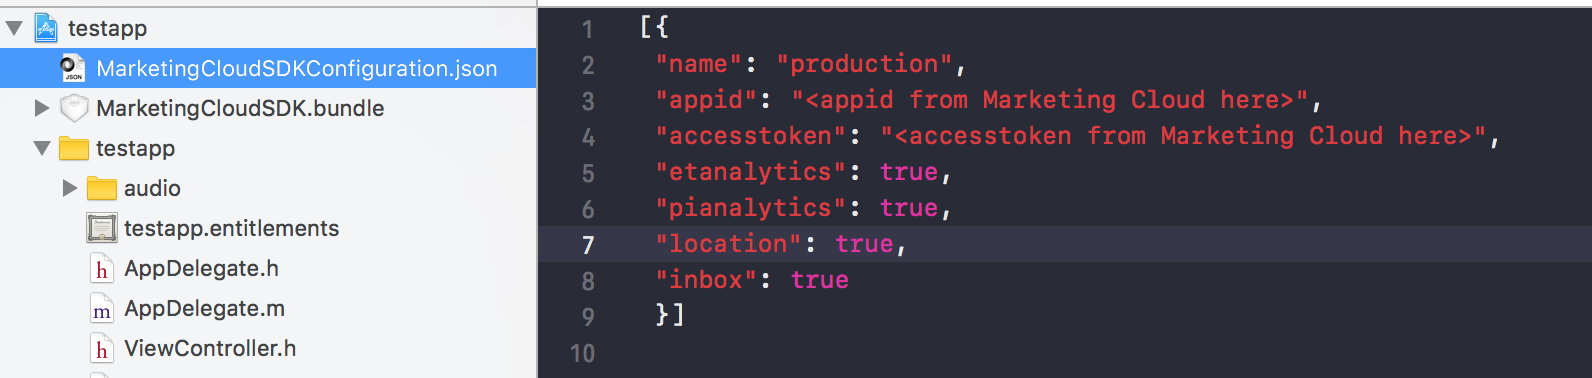
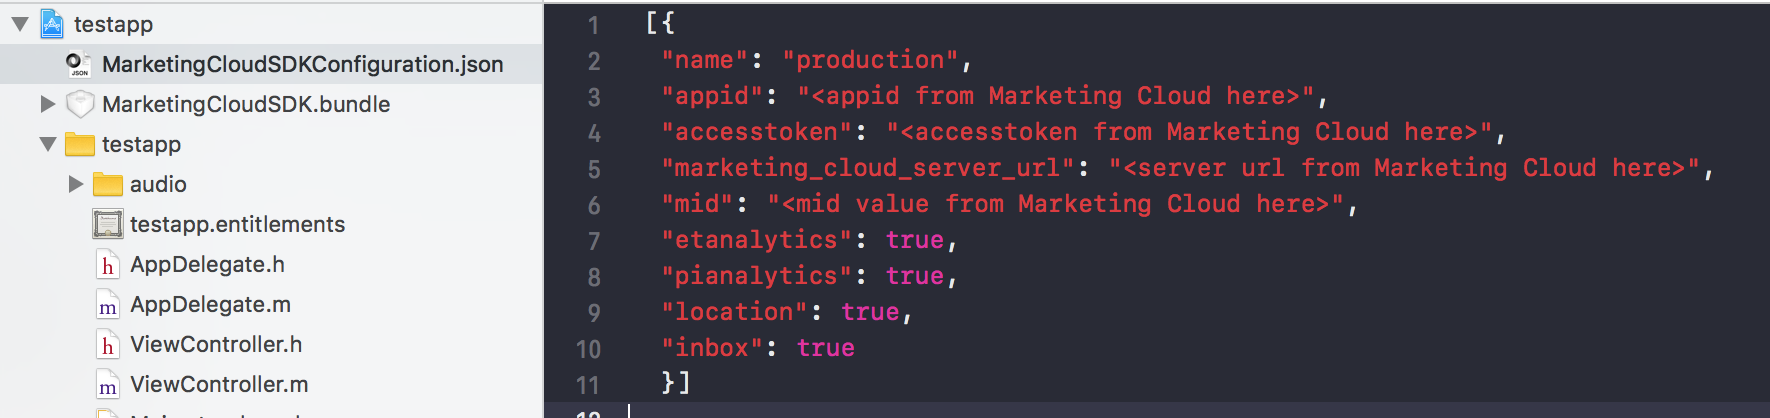
- W-5211129: tse and mid docs

diff --git a/_posts/2015-05-13-implement-sdk.md b/_posts/2015-05-13-implement-sdk.md
@@ -37,27 +37,26 @@ Do **NOT** use .xcodeproj. An error occurs if you open up a project file instead
 
 Configure the MarketingCloudSDK framework via a JSON file added to your application. This file contains the parameters unique to your application and feature needs. The MarketingCloudSDK framework reads the values within this file and completes its configuration based on these settings.
 
-1. Add MarketingCloudSDKConfiguration.json to Copy Bundle Resources in your target's Build Phases settings.
-<img class="img-responsive" src="{{ site.baseurl }}/assets/SDKConfigure6.png" /><br/>
-1. Change the *appid* and *accesstoken* values to match the information from your Marketing Cloud account when you configured your application. These values represent the unique paring of this iOS application with the Marketing Cloud account used for MobilePush.
-2. Change the *marketing_cloud_server_url* value to match information from your Marketing Cloud account when you configured your application. This value represents the server to which the SDK will communicate.
-> <img class="img-responsive" src="{{ site.baseurl }}/assets/setupConfigValues.png" />
-3. Change the *mid* value to match information from your Marketing Cloud account when you configured your application. Select your account name in the upper-right corner of the [MobilePush Administration site](https://mc.exacttarget.com/cloud/#app/MobilePush/MobilePush/) and copy the "MID" value (numbers only).
-> <img class="img-responsive" src="{{ site.baseurl }}/assets/setupMidValues.png" />
+1. Add MarketingCloudSDKConfiguration.json to Copy Bundle Resources in your target's Build Phases settings.<br/><img class="img-responsive" src="{{ site.baseurl }}/assets/SDKConfigure6.png" /><br/>
+2. Change the *appid* and *accesstoken* values to match the information from your Marketing Cloud account when you configured your application. These values represent the unique paring of this iOS application with the Marketing Cloud account used for MobilePush.
+3. Change the *marketing_cloud_server_url* value to match information from your Marketing Cloud account when you configured your application. This value represents the server to which the SDK will communicate.<br/><img class="img-responsive" src="{{ site.baseurl }}/assets/setupConfigValues.png" /><br/>
+4. Change the *mid* value to match information from your Marketing Cloud account when you configured your application. Select your account name in the upper-right corner of the [MobilePush Administration site](https://mc.exacttarget.com/cloud/#app/MobilePush/MobilePush/) and copy the "MID" value (numbers only).<br/><img class="img-responsive" src="{{ site.baseurl }}/assets/setupMidValues.png" /><br/>
 1. Enable or disable *etanalytics*, *pianalytics*, *location*, or *inbox* entries depending on the unique needs of your application and your usage of Marketing Cloud.
+
+<br/><img class="img-responsive" src="{{ site.baseurl }}/assets/SDKConfigure7.png" /><br/>
+
+
 > Marketing Cloud and the Mobile Push MarketingCloudSDK framework support push notifications.
-1. To implement push notification handling in your application, ensure you created an APNS Push Certificate in the Apple developer portal and added that to your Marketing Cloud account. Make sure that you added the push notifications feature to your application in the Apple developer portal. Enable push notifications in  your target's Capabilities settings.
-<img class="img-responsive" src="{{ site.baseurl }}/assets/SDKConfigure7.png" /><br/>
+
+
+1. To implement push notification handling in your application, ensure you created an APNS Push Certificate in the Apple developer portal and added that to your Marketing Cloud account. Make sure that you added the push notifications feature to your application in the Apple developer portal. Enable push notifications in  your target's Capabilities settings. <img class="img-responsive" src="{{ site.baseurl }}/assets/SDKConfigure8.png" /><br/>
 > When implementing the MarketingCloudSDK framework, note that all method names contain the prefix *sfmc_*. This convention allows the application implementing the SDK to protect against the possibility of namespace collisions between external libraries it may use. We've taken every precaution to ensure that MarketingCloudSDK does not cause compile, link, or runtime collisions with other code your application may implement. Review Apple's [documentation on customizing existing classes](https://developer.apple.com/library/content/documentation/Cocoa/Conceptual/ProgrammingWithObjectiveC/CustomizingExistingClasses/CustomizingExistingClasses.html#//apple_ref/doc/uid/TP40011210-CH6-SW4) for further information.
-1. In your application delegate, import the framework header to enable MarketingCloudSDK functionality.
-<script src="https://gist.github.com/1fd881bd6bd0b81fc53fac4763d758ba.js"></script>
+2. In your application delegate, import the framework header to enable MarketingCloudSDK functionality.<br/><script src="https://gist.github.com/1fd881bd6bd0b81fc53fac4763d758ba.js"></script>
 <script src="https://gist.github.com/e98010d99755e03fa470b7f6bea2522e.js"></script>
-1. In your application delegate class, add these sections of code to ensure that your application registers for and handles push notifications. Set your AppDelegate class to adhere to the UNUserNotificationCenterDelegate protocol.
-<script src="https://gist.github.com/de3ba047a63c27ec8d88fc8e6eaa4f5d.js"></script>
+3. In your application delegate class, add these sections of code to ensure that your application registers for and handles push notifications. Set your AppDelegate class to adhere to the UNUserNotificationCenterDelegate protocol.<br/><script src="https://gist.github.com/de3ba047a63c27ec8d88fc8e6eaa4f5d.js"></script>
 <script src="https://gist.github.com/88c8b6247e1e1cdce48a19dc0c19e304.js"></script>
 
-1. In your application delegate method *-application:didFinishLaunchingWithOptions:*, create an instance of the MarketingCloudSDK and configure it for use, setting the push delegate and requesting push authorization. Only init or configure in didFinishingLaunching.
-<script src="https://gist.github.com/1770c3d15eff943946ba254203d9ae87.js"></script>
+5. In your application delegate method *-application:didFinishLaunchingWithOptions:*, create an instance of the MarketingCloudSDK and configure it for use, setting the push delegate and requesting push authorization. Only init or configure in didFinishingLaunching.<br/><script src="https://gist.github.com/1770c3d15eff943946ba254203d9ae87.js"></script>
 <script src="https://gist.github.com/9cdc6399bd6adf576371d5a5cc512b71.js"></script>
 
 Configuration of the MarketingCloudSDK includes a synchronous return of the BOOL return value and asynchronous process to complete configuration. We recommend your application rely on the *success* and *error* values returned in the *completionHandler* to verify successful configuration. The *MarketingCloudSDK+Base.h* header file details additional methods for configuration.

diff --git a/_posts/2015-05-13-apple.md b/_posts/2015-05-13-apple.md
@@ -69,12 +69,19 @@ Configure the MarketingCloudSDK framework via a JSON file that you add to your a
 
 > All method names contain the prefix `sfmc_`. This convention allows the application implementing the SDK to avoid namespace collisions between the external libraries it may use. MarketingCloudSDK does not cause compile, link, or runtime collisions with other code your application may implement. Review Apple’s [documentation on customizing existing classes](https://developer.apple.com/library/content/documentation/Cocoa/Conceptual/ProgrammingWithObjectiveC/CustomizingExistingClasses/CustomizingExistingClasses.html#//apple_ref/doc/uid/TP40011210-CH6-SW4) for further information.
 
-1. Add MarketingCloudSDKConfiguration.json to Copy Bundle Resources in your target’s Build Phases settings.
-<img class="img-responsive" src="{{ site.baseurl }}/assets/SDKConfigure6.png" /><br/>
-1. Change the `appid` and `accesstoken` values to match the information from your Marketing Cloud account when you configured your application. These values represent the unique pairing of this iOS application with the Marketing Cloud account used for MobilePush.
-1. Enable or disable `analytics`, `location`, or `inbox` entries depending on the unique needs of your application and your usage of Marketing Cloud.
+1. Add MarketingCloudSDKConfiguration.json to Copy Bundle Resources in your target's Build Phases settings.<br/><img class="img-responsive" src="{{ site.baseurl }}/assets/SDKConfigure6.png" /><br/><br/><img class="img-responsive" src="{{ site.baseurl }}/assets/SDKConfigure7.png" /><br/>
+2. Change the *appid* and *accesstoken* values to match the information from your Marketing Cloud account when you configured your application. These values represent the unique paring of this iOS application with the Marketing Cloud account used for MobilePush.
+3. Change the *marketing_cloud_server_url* value to match information from your Marketing Cloud account when you configured your application. This value represents the server to which the SDK will communicate.<br/><img class="img-responsive" src="{{ site.baseurl }}/assets/setupConfigValues.png" /><br/>
+4. Change the *mid* value to match information from your Marketing Cloud account when you configured your application. Select your account name in the upper-right corner of the [MobilePush Administration site](https://mc.exacttarget.com/cloud/#app/MobilePush/MobilePush/) and copy the "MID" value (numbers only).<br/><img class="img-responsive" src="{{ site.baseurl }}/assets/setupMidValues.png" /><br/>
+1. Enable or disable *etanalytics*, *pianalytics*, *location*, or *inbox* entries depending on the unique needs of your application and your usage of Marketing Cloud.
+
+
+## 5. Implement Push
+
+> When implementing the MarketingCloudSDK framework, note that all method names contain the prefix *sfmc_*. This convention allows the application implementing the SDK to protect against the possibility of namespace collisions between external libraries it may use. We've taken every precaution to ensure that MarketingCloudSDK does not cause compile, link, or runtime collisions with other code your application may implement. Review Apple's [documentation on customizing existing classes](https://developer.apple.com/library/content/documentation/Cocoa/Conceptual/ProgrammingWithObjectiveC/CustomizingExistingClasses/CustomizingExistingClasses.html#//apple_ref/doc/uid/TP40011210-CH6-SW4) for further information.
+
 1. To implement push notification handling in your application, ensure that you created an APNS Push Certificate in the Apple developer portal and added it to your Marketing Cloud account. Make sure that you added the push notifications feature to your application in the Apple developer portal. Enable push notifications in your target’s Capabilities settings.
-<img class="img-responsive" src="{{ site.baseurl }}/assets/SDKConfigure7.png" /><br/>
+<img class="img-responsive" src="{{ site.baseurl }}/assets/SDKConfigure8.png" /><br/>
 1. In your application delegate, import the framework header to enable MarketingCloudSDK functionality.
 <script src="https://gist.github.com/1fd881bd6bd0b81fc53fac4763d758ba.js"></script>
 <script src="https://gist.github.com/e98010d99755e03fa470b7f6bea2522e.js"></script>
